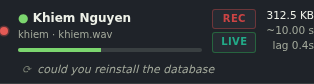
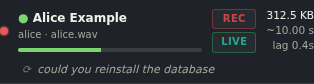
Scrub real names from screenshot fixture — Alice/Bob instead

Changed region(s): [[0.086, 0.1429, 0.4299, 0.3095], [0.0573, 0.3571, 0.3726, 0.4524]]

diff --git a/tools/screenshot_gate_ui.py b/tools/screenshot_gate_ui.py
@@ -61,10 +61,10 @@ async def _seed_state(recorder: Recorder) -> None:
 
     await recorder.streams.register(
         ActiveStream(
-            conn_id="conn-khiem",
-            identity="khiem",
-            name="Khiem Nguyen",
-            filename="khiem.wav",
+            conn_id="conn-alice",
+            identity="alice",
+            name="Alice Example",
+            filename="alice.wav",
             started_at=datetime.now(timezone.utc),
             bytes_received=320_000,
             level=0.45,
@@ -76,10 +76,10 @@ async def _seed_state(recorder: Recorder) -> None:
     )
     await recorder.streams.register(
         ActiveStream(
-            conn_id="conn-huy",
-            identity="huy",
-            name="Huy Dam",
-            filename="huy.wav",
+            conn_id="conn-bob",
+            identity="bob",
+            name="Bob Example",
+            filename="bob.wav",
             started_at=datetime.now(timezone.utc),
             bytes_received=180_000,
             level=0.0,
@@ -200,18 +200,16 @@ async def main() -> None:
             )
 
             # 3) Tap-row crop showing the in-flight buffer_transcription
-            #    line beneath Khiem's row.
-            khiem_row = await page.query_selector(
-                ".stream-row-wrap:has(.fg:text('Khiem Nguyen'))"
+            #    line beneath Alice's row.
+            alice_row = await page.query_selector(
+                ".stream-row-wrap:has(.fg:text('Alice Example'))"
             )
-            if khiem_row is None:
-                khiem_row = await page.query_selector(
-                    "section.card:has(.stream-row-wrap)"
-                )
-            assert khiem_row is not None
+            if alice_row is None:
+                alice_row = await page.query_selector("section.card:has(.stream-row-wrap)")
+            assert alice_row is not None
             # Screenshot the row + its associated buffer line (template
             # wraps both in the same root .stream-row template fragment).
-            await khiem_row.screenshot(
+            await alice_row.screenshot(
                 path=str(SHOTS_DIR / "03-tap-row-with-in-flight-buffer.png")
             )
 
